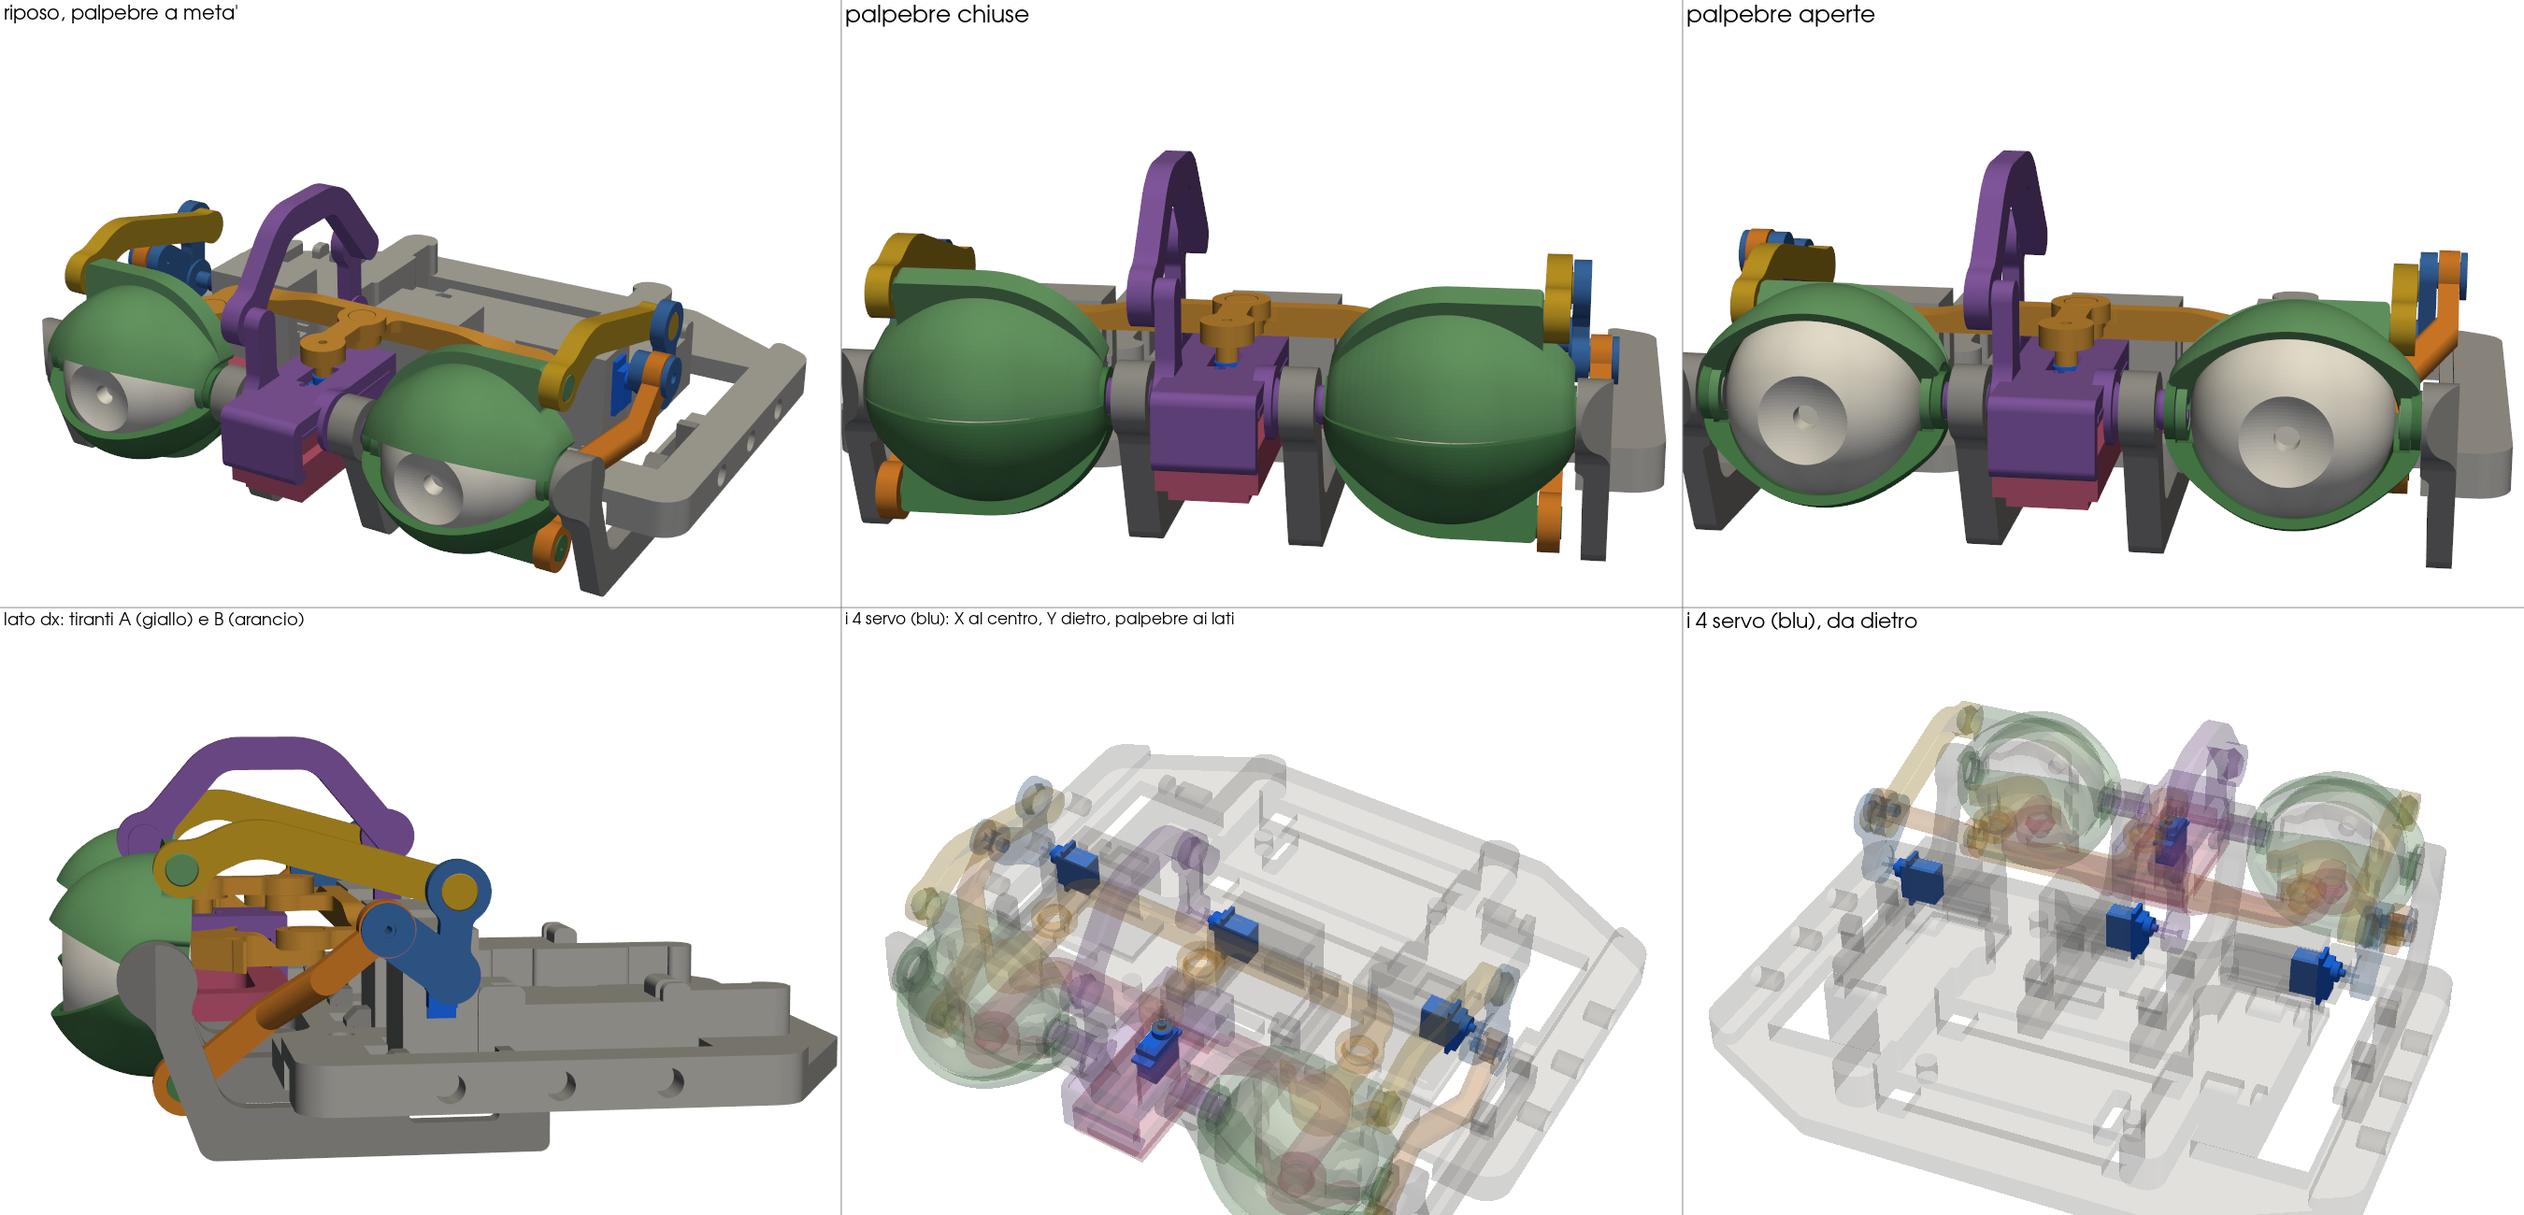
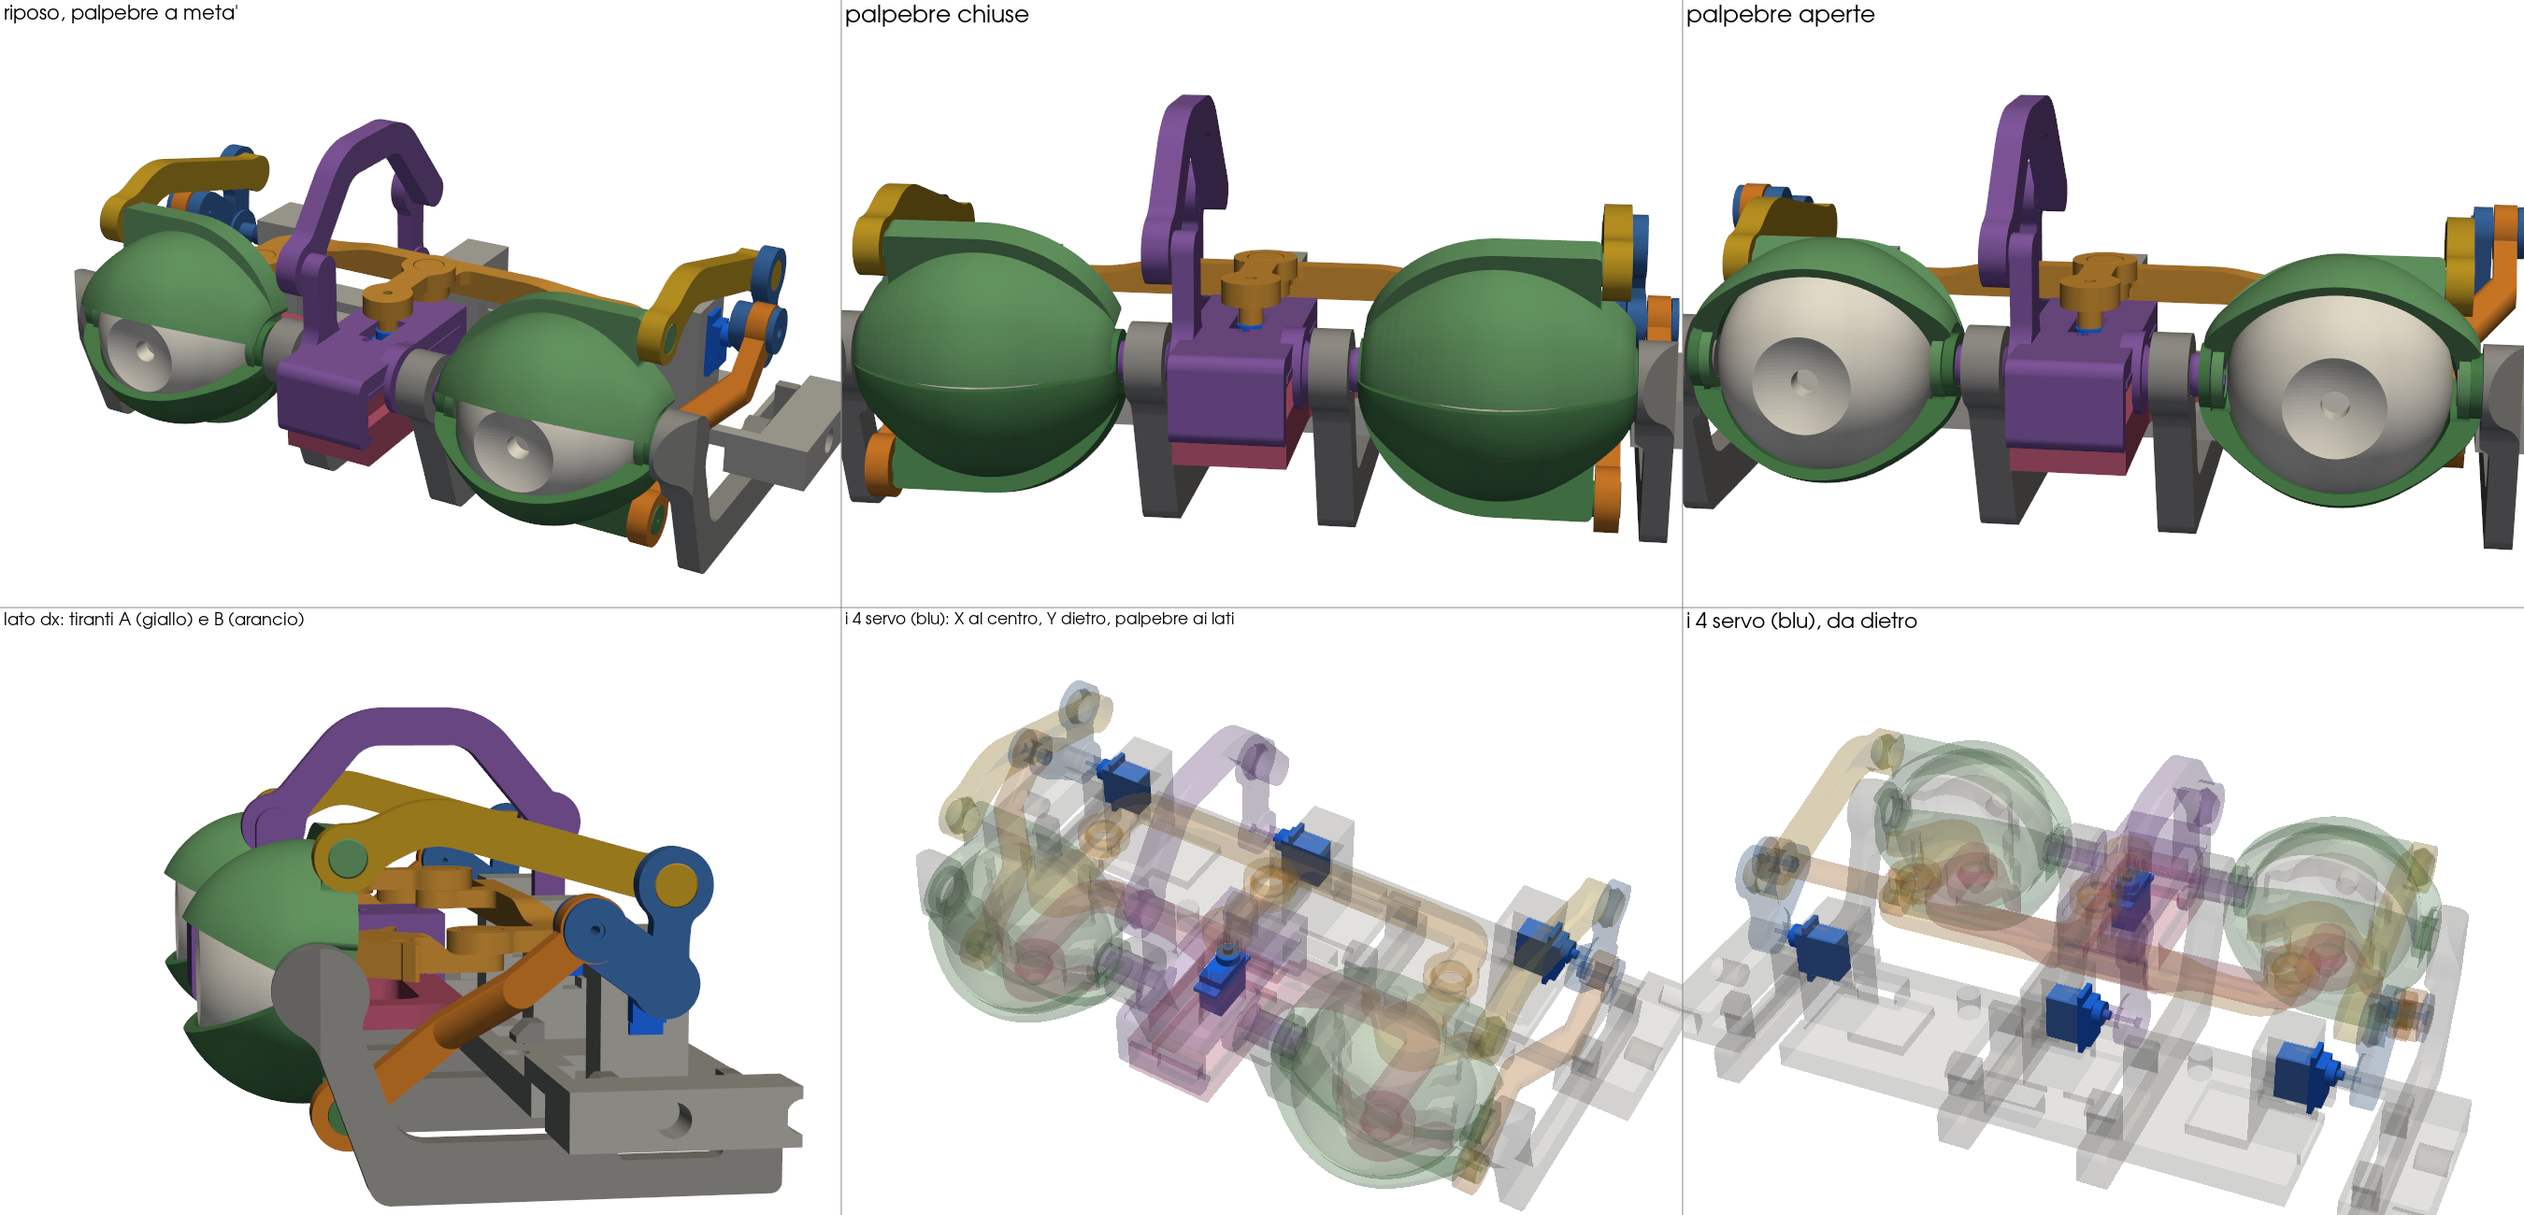
Occhi D85: base ridotta, blocchi sedi accorciati (30 h, 0.86 kg)
La base di Will teneva anche la scheda e i servo posteriori: resta solo la
striscia con le fessure dei supporti a L e le sedi dei 3 servo (388x80
invece di 388x253), con 2 chiavette. I blocchi delle sedi si fermano 24 mm
sotto le orecchie. Le due meta' della base stanno su un piatto: 8 piatti
A1 invece di 9, da 37.5 h / 1.24 kg a 30.3 h / 0.86 kg di PLA.

diff --git a/mechanical/scripts/generate_eyemech.py b/mechanical/scripts/generate_eyemech.py
@@ -375,7 +375,7 @@ def servo_frame(shaft_pt, shaft_dir, body_dir, top):
     return M
 
 
-def servo_seat(part, Mtop, s, plugs=(), zmin=None, sweep=40.0):
+def servo_seat(part, Mtop, s, plugs=(), zmin=None, sweep=40.0, depth=None):
     """sede 1:1 per SG90/MG90S vero dentro la sede ingrandita di Will.
     Mtop: locale servo -> pezzo con l'origine sull'asse, nel piano della faccia SUPERIORE
     (z locale = albero). Si riempie il volume del SG90 ingrandito (che era vuoto per costruzione)
@@ -384,7 +384,8 @@ def servo_seat(part, Mtop, s, plugs=(), zmin=None, sweep=40.0):
       * appoggio piano per le orecchie + 2 fori M2 autofilettanti,
       * via d'ingresso: tutto libero sopra il piano orecchie, lungo l'albero.
     plugs: mesh (nel sistema del pezzo) che chiudono fessure di Will da riempire;
-    zmin: il riempimento non scende sotto questa quota (fondo del pezzo, piano di stampa)."""
+    zmin: il riempimento non scende sotto questa quota (fondo del pezzo, piano di stampa);
+    depth: il riempimento si ferma a questa distanza sotto il piano orecchie (None = tutto)."""
     c = CL
     T = lambda m: tf(m, Mtop)
     Hs = s * SG_H                                    # fondo SG90 ingrandito a z = -Hs
@@ -395,7 +396,7 @@ def servo_seat(part, Mtop, s, plugs=(), zmin=None, sweep=40.0):
     # i plugs, l'orecchia ingrandita superiore non serve
     body = box([xb0 + 0.2, -hw, -Hs], [xb1 + 1.0, hw, 0])
     fill = U([T(body)] + list(plugs))
-    keep = T(box([-500, -500, -Hs - 500], [500, 500, ear]))
+    keep = T(box([-500, -500, -Hs - 500 if depth is None else ear - depth], [500, 500, ear]))
     fill = I(fill, keep)
     if zmin is not None:
         fill = I(fill, box([-1e4, -1e4, zmin], [1e4, 1e4, 1e4]))
@@ -690,13 +691,20 @@ def build(dia=85.0, small=False):
     plugs = {"LID_R": [s1([43.8, -28.71, bz0], [46.6, -16.21, -3.15])],
              "LID_L": [s1([-46.6, -28.71, bz0], [-43.8, -16.21, -3.15])],
              "Y": [s1([-4.55, -28.86, bz0], [-1.65, -16.06, -3.15])]}
+    # base ridotta: serve solo a tenere i supporti a L (fessure y -32.6..-12.4) e i 3 servo.
+    # Si tiene la striscia y -38..-8 (1:1); via il resto (sedi dei servo posteriori, porta-PCB,
+    # blocchi rialzati dietro le sedi palpebre).
+    base = I(base, box([-1e4, s * BASE_Y[0], -1e4], [1e4, s * BASE_Y[1], 1e4]))
+    base = D(base, [box([s * x0, s * -16.4, s * -3.15 + 0.01], [s * x1, s * BASE_Y[1] + 1, 1e3])
+                    for x0, x1 in ((-56.0, -17.0), (17.0, 56.0))])
     for k in ("LID_R", "LID_L", "Y"):
-        base = servo_seat(base, seats[k], s, plugs[k], zmin=s * bz0)
+        base = servo_seat(base, seats[k], s, plugs[k], zmin=s * bz0, depth=SEAT_DEPTH)
     fr = W["xA"]["EyeCorePivotHolder"]
     xa = out["XAxisA_PIP"]
     xa["EyeCorePivotHolder"] = servo_seat(
         xa["EyeCorePivotHolder"], seats["X"], s,
-        [s1([-6.4, -14.95, fr.bounds[0, 2]], [6.4, 10.65, 4.8])], zmin=s * fr.bounds[0, 2])
+        [s1([-6.4, -14.95, fr.bounds[0, 2]], [6.4, 10.65, 4.8])], zmin=s * fr.bounds[0, 2],
+        depth=SEAT_DEPTH)
     # box del CoreY sopra il servo X: in Will (1:1) ha una piastra con la finestra del servo
     # (x +-6.4, y -24.5..-0.47, z -12..-9 nel gruppo) e sotto la cavita' tra le pareti di testa
     # (y -29.2..3.3). Ingrandite sarebbero 2.7 volte il servo: si riempiono e si apre la finestra
@@ -738,7 +746,9 @@ def bowtie(cx, cy, z0, z1, half_len=24.0, w_mid=14.0, w_end=26.0, grow=0.0):
     return m
 
 
-KEY_Y = (17.5, 41.5, -5.0)      # posizioni delle chiavette sotto la base (unita' 1:1)
+BASE_Y = (-38.0, -8.0)          # striscia di base tenuta (unita' 1:1)
+KEY_Y = (-31.0, -14.0)          # posizioni delle chiavette sotto la base (unita' 1:1)
+SEAT_DEPTH = SG_EAR[0] + 8.0    # blocchi delle sedi: corpo sotto le orecchie + cavo + parete
 KEY_DEPTH = 7.0
 KEY_SCREW_X = 15.0
 
@@ -764,7 +774,7 @@ def split_base(base, s):
         cone = trimesh.creation.cone(radius=3.4, height=3.4, sections=24)   # svasatura sotto
         cone.apply_translation([sx * KEY_SCREW_X, 0, -0.01])
         kc.append(cone)
-    return {"Base_L": L, "Base_R": R, "BaseKey_x3": D(key, kc)}
+    return {"Base_L": L, "Base_R": R, f"BaseKey_x{len(KEY_Y)}": D(key, kc)}
 
 
 # =====================================================================================
@@ -898,7 +908,7 @@ def info_text(s, info, kin, files, worst):
     else:
         L += [f"codolo_mozzo_mm: {s * WILL_HORN_FACE - SG_BOSS_TOP - 0.6:.1f} (sede scanalato D{SPLINE_D} x {SPLINE_DEPTH})",
               f"viti: per squadretta 1 x M2x12 (nel codolo, nello scanalato); {tb};",
-              "      per servo 2 x M2x8 autofilettanti (orecchie -> sede); base: 6 x M3x10 svasate nelle chiavette"]
+              f"      per servo 2 x M2x8 autofilettanti (orecchie -> sede); base: {2 * len(KEY_Y)} x M3x10 svasate nelle chiavette"]
     L.append("pezzi (mm, X x Y x Z come esportati):")
     for n, e in files:
         L.append(f"  {n}: {e[0]:.0f} x {e[1]:.0f} x {e[2]:.0f}")
@@ -909,17 +919,17 @@ def info_text(s, info, kin, files, worst):
 # piatti per Bambu A1 (256 x 256) dei pezzi grandi della D85: (pezzo, file, rotazione z,
 # posizione). "c": centro xy dell'ingombro; "min": angolo minimo xy.
 A1_PLATES = {
-    "P1": [("Base_L", "00_Base_L", 0, ("c", 98.935, 128.0)),
-           ("BaseKey_x3", "01_BaseKey0", 0, ("min", 203.0, 20.0)),
-           ("BaseKey_x3", "02_BaseKey1", 0, ("min", 203.0, 55.0)),
-           ("BaseKey_x3", "03_BaseKey2", 0, ("min", 203.0, 90.0))],
-    "P2": [("Base_R", "00_Base_R", 0, ("c", 98.935, 128.0)),
-           ("PinB_x2", "01_PinB1", 0, ("min", 210.0, 30.0)),
-           ("PinB_x2", "02_PinB2", 0, ("min", 210.0, 70.0)),
-           ("Washer_x2", "03_Washer1", 0, ("min", 210.0, 110.0)),
-           ("Washer_x2", "04_Washer2", 0, ("min", 210.0, 145.0))],
-    "P3": [("XAxisA_PIP", "00_XAxisA_PIP", 135, ("c", 128.0, 128.0))],   # 264 mm: in diagonale
-    "P4": [("XAxisB_PIP", "00_XAxisB_PIP", 135, ("c", 128.0, 128.0))],
+    # le due meta' della base (194 x 80) una sopra l'altra, minuteria nella fascia in alto
+    "P1": [("Base_L", "00_Base_L", 0, ("c", 128.0, 50.0)),
+           ("Base_R", "01_Base_R", 0, ("c", 128.0, 140.0)),
+           ("BaseKey_x2", "02_BaseKey1", 0, ("min", 10.0, 200.0)),
+           ("BaseKey_x2", "03_BaseKey2", 0, ("min", 66.0, 200.0)),
+           ("PinB_x2", "04_PinB1", 0, ("min", 124.0, 200.0)),
+           ("PinB_x2", "05_PinB2", 0, ("min", 154.0, 200.0)),
+           ("Washer_x2", "06_Washer1", 0, ("min", 184.0, 200.0)),
+           ("Washer_x2", "07_Washer2", 0, ("min", 214.0, 200.0))],
+    "P2": [("XAxisA_PIP", "00_XAxisA_PIP", 135, ("c", 128.0, 128.0))],   # 264 mm: in diagonale
+    "P3": [("XAxisB_PIP", "00_XAxisB_PIP", 135, ("c", 128.0, 128.0))],
 }
 
 
@@ -992,7 +1002,12 @@ def render(asm, kin, s, path):
         pl.view_vector(v)
         pl.camera.zoom(zoom)
         pl.add_text(title, font_size=11)
-    pl.screenshot(str(path))
+    try:
+        pl.screenshot(str(path))
+    except OSError:            # file aperto in un visualizzatore (Windows lo blocca)
+        alt = path.with_name(path.stem + "_nuova.png")
+        pl.screenshot(str(alt))
+        print(f"immagine bloccata, salvata in {alt}")
 
 
 def main():

diff --git a/docs/mechanical_eyes.md b/docs/mechanical_eyes.md
@@ -33,7 +33,7 @@ Cambia solo quello che non si può ingrandire o che riguarda le palpebre:
 | Squadrette (palpebre, X, Y) | mozzo rifatto: codolo Ø10 che scende di 8.7 mm fino allo scanalato del servo vero, sede Ø4.75×3 a pressione + vite M2×12 |
 | Palpebre | Will usa 2 servo per occhio. Resta solo il servo **anteriore** (quello della palpebra superiore, tirante corto originale). La sua squadretta ha un secondo braccio (r 35.1 mm, 58.8° avanti) con un perno; il nuovo tirante `LinkB` (interasse 104.9 mm) porta il moto all'orecchia della palpebra inferiore. Spingendo in avanti le due orecchie le palpebre si chiudono insieme |
 | Servo posteriore | eliminato, con la sua squadretta e il tirante lungo. La sua sede ingrandita resta vuota |
-| Base | 388 × 253 × 67 mm: divisa a metà (x = 0), unita da 3 chiavette a coda di rondine sotto, con 2 viti M3×10 svasate ciascuna |
+| Base | **ridotta** a 388 × 80 × 67 mm: in Will teneva anche la scheda e i servo posteriori, qui deve solo tenere i supporti a L e i 3 servo. Resta la striscia y −38…−8 (quote 1:1) con le fessure dei supporti e i blocchi delle sedi (accorciati a 24 mm sotto le orecchie). Divisa a metà (x = 0), unita da 2 chiavette a coda di rondine sotto, con 2 viti M3×10 svasate ciascuna |
 | Porta-PCB | non inclusi: ingranditi terrebbero una scheda di Will 2.7 volte più grande |
 
 **Cinematica palpebre** (ottimizzata nello script): con 80° di corsa del servo la palpebra superiore fa
@@ -56,12 +56,12 @@ mostrano i 4 servo (blu) con il resto trasparente.
 ### Cosa stampare (D85)
 | File | Q.tà | Note |
 |---|---|---|
-| `Base_L`, `Base_R` | 1+1 | 194 × 253 × 67 mm ciascuna, piatto da 256. Contengono le sedi 1:1 dei servo Y e palpebre (la sede Y è a cavallo della giunzione) |
-| `BaseKey_x3` | 3 | chiavette sotto la giunzione, viti M3×10 svasate (6) |
+| `Base_L`, `Base_R` | 1+1 | 194 × 80 × 67 mm ciascuna, stanno insieme su un piatto. Contengono le sedi 1:1 dei servo Y e palpebre (la sede Y è a cavallo della giunzione) |
+| `BaseKey_x2` | 2 | chiavette sotto la giunzione, viti M3×10 svasate (4) |
 | `PivotCentral_x2`, `PivotOuter_L`, `PivotOuter_R` | 2+1+1 | supporti a L |
 | `Eyeball_x2` | 2 | bulbi di Will Ø85.3 (pochi perimetri, riempimento basso: pieni sarebbero ~200 g) |
 | `CoreY_PIP` | 1 | telaio su/giù + squadretta Y (print-in-place); nel box la finestra 1:1 del servo X |
-| `XAxisA_PIP`, `XAxisB_PIP` | 1+1 | asse X (print-in-place), in `XAxisA` la sede 1:1 del servo X. Lunghi 264 mm: **in diagonale** sul piatto da 256 (già fatto in `print_A1/P3`, `P4`) |
+| `XAxisA_PIP`, `XAxisB_PIP` | 1+1 | asse X (print-in-place), in `XAxisA` la sede 1:1 del servo X. Lunghi 264 mm: **in diagonale** sul piatto da 256 (già fatto in `print_A1/P2`, `P3`) |
 | `LidTop_L_PIP`, `LidTop_R_PIP` | 1+1 | palpebra superiore + tirante originale + squadretta nuova (print-in-place) |
 | `LidBottom_L`, `LidBottom_R` | 1+1 | palpebra inferiore, perno dell'orecchia cilindrico Ø14 con foro per M3 |
 | `LinkB_L`, `LinkB_R` | 1+1 | tirante nuovo: ha un tratto obliquo, serve supporto |
@@ -69,9 +69,9 @@ mostrano i 4 servo (blu) con il resto trasparente.
 | `Washer_x2` | 2 | rondella sull'orecchia della palpebra inferiore, vite M3×10 |
 
 Orientamenti di stampa: quelli di Will (presi dal suo 3MF), solo ingranditi.
-`print_A1/`: P1 = `Base_L` + chiavette, P2 = `Base_R` + perni e rondelle, P3 = `XAxisA`, P4 = `XAxisB`.
-`bambu_A1/`: tutti i pezzi già tagliati in Bambu Studio su 9 piatti A1 (PLA, 0.20 mm): **≈ 37 h 30 min e
-≈ 1.24 kg di filamento** in totale; tempi e grammi per piatto in `bambu_A1/README.md`.
+`print_A1/`: P1 = `Base_L` + `Base_R` + chiavette, perni e rondelle, P2 = `XAxisA`, P3 = `XAxisB`.
+`bambu_A1/`: tutti i pezzi già tagliati in Bambu Studio su 8 piatti A1 (PLA, 0.20 mm): **≈ 30 h 20 min e
+≈ 0.86 kg di filamento** in totale; tempi e grammi per piatto in `bambu_A1/README.md`.
 
 ### Montaggio
 Come nella guida di Will (`mechanical/eyes/original/eyemech_e3.2/src/Assembly.pdf`), con queste differenze:

diff --git a/mechanical/eyes/eyemech_D85/bambu_A1/README.md b/mechanical/eyes/eyemech_D85/bambu_A1/README.md
@@ -6,21 +6,23 @@ Si aprono direttamente in Bambu Studio (File → Apri progetto) e si mandano in 
 
 | Piatto | Contenuto | Tempo | Filamento | Altezza |
 |---|---|---|---|---|
-| 1 | `Base_L` + 3 chiavette | 6 h 29 min | 282 g | 67 mm |
-| 2 | `Base_R` + 2 `PinB` + 2 rondelle | 6 h 41 min | 290 g | 67 mm |
-| 3 | `XAxisA_PIP` (in diagonale) | 3 h 01 min | 83 g | 37 mm |
-| 4 | `XAxisB_PIP` (in diagonale) | 3 h 07 min | 66 g | 30 mm |
-| 5 | `CoreY_PIP` + `LidBottom_L` + `LidBottom_R` | 6 h 28 min | 152 g | 112 mm |
-| 6 | `LidTop_L_PIP` + `LidTop_R_PIP` | 4 h 47 min | 119 g | 109 mm |
-| 7 | `PivotOuter_L` + `PivotOuter_R` | 1 h 13 min | 49 g | 24 mm |
-| 8 | `PivotCentral` × 2 | 1 h 20 min | 57 g | 15 mm |
-| 9 | `Eyeball` × 2 + `LinkB_L` + `LinkB_R` | 4 h 14 min | 143 g | 53 mm |
-| **Totale** | **9 piatti** | **≈ 37 h 30 min** | **≈ 1.24 kg (410 m)** | |
+| 1 | `Base_L` + `Base_R` (base ridotta) + 2 chiavette + 2 `PinB` + 2 rondelle | 5 h 37 min | 192 g | 67 mm |
+| 2 | `XAxisA_PIP` (in diagonale) | 3 h 26 min | 83 g | 37 mm |
+| 3 | `XAxisB_PIP` (in diagonale) | 3 h 07 min | 66 g | 30 mm |
+| 4 | `CoreY_PIP` + `LidBottom_L` + `LidBottom_R` | 6 h 28 min | 152 g | 112 mm |
+| 5 | `LidTop_L_PIP` + `LidTop_R_PIP` | 4 h 47 min | 119 g | 109 mm |
+| 6 | `PivotOuter_L` + `PivotOuter_R` | 1 h 13 min | 49 g | 24 mm |
+| 7 | `PivotCentral` × 2 | 1 h 20 min | 57 g | 15 mm |
+| 8 | `Eyeball` × 2 + `LinkB_L` + `LinkB_R` | 4 h 14 min | 143 g | 53 mm |
+| **Totale** | **8 piatti** | **≈ 30 h 20 min** | **≈ 0.86 kg** | |
 
 Stime di Bambu Studio (tempi senza riscaldamento/calibrazione iniziale, che sull'A1 aggiungono
 qualche minuto per piatto). Con un altro filamento o profilo i valori cambiano: rifare lo slicing.
-Ordine consigliato: prima i piatti 3, 4, 5 (assi X/Y e box del servo X) per provare le sedi dei servo,
-poi le basi.
+Ordine consigliato: prima i piatti 2, 3, 4 (assi X/Y e box del servo X) per provare le sedi dei servo,
+poi la base.
+
+Nei pezzi print-in-place (`CoreY`, `XAxisA/B`, `LidTop`) controllare nell'anteprima che i supporti
+automatici non finiscano negli spazi tra le parti mobili (eventualmente toglierli col pennello).
 
 Rigenerare (dopo `generate_eyemech.py`): aprire i file STL in `../` e `../print_A1/` in Bambu Studio,
 oppure usare la riga di comando (`bambu-studio.exe --slice 0 --arrange 1 ... --export-3mf`).

diff --git a/docs/lista_spesa.md b/docs/lista_spesa.md
@@ -85,10 +85,10 @@ generica: servono per farsi un'idea del budget, non sono preventivi.
 ## 5. Meccanica occhi (EyeMech D85, per coppia di occhi; dettagli in `docs/mechanical_eyes.md`)
 | # | Articolo | Specifica | Q.tà per coppia | Note |
 |---|---|---|---|---|
-| 54 | Filamento PETG (o PLA+) | — | ~1.5–2 kg | bulbi e palpebre leggeri (pochi perimetri, riempimento basso) |
+| 54 | Filamento PETG (o PLA+) | — | ~1 kg (0.86 kg in PLA, vedi `bambu_A1/README.md`) | bulbi e palpebre leggeri (pochi perimetri, riempimento basso) |
 | 55 | Viti M2 autofilettanti | 8 mm (servo) + 12 mm (squadrette) | 8 + 4 | 2 per servo nelle orecchie, 1 per squadretta |
 | 56 | Viti M3 | 20 mm (PinB) + 10 mm (rondelle palpebre) | 2 + 2 | |
-| 57 | Viti M3 svasate | 10 mm | 6 | chiavette della base |
+| 57 | Viti M3 svasate | 10 mm | 4 | chiavette della base |
 | 58 | Versione di prova D32 | viti M2 × 8 mm e × 5 mm | 2 + 2 | + filamento ~150 g |
 
 ## Riepilogo budget indicativo

diff --git a/docs/TODO.md b/docs/TODO.md
@@ -20,7 +20,7 @@ Dettagli: `docs/mechanical_eyes.md`.
 
 ## 3. Versione D85 (`mechanical/eyes/eyemech_D85/`)
 - [ ] Prima: provare una sede 1:1 e una squadretta col servo vero
-- [ ] Stampare i piatti `print_A1/P1`…`P4` + gli altri pezzi
+- [ ] Stampare gli 8 piatti di `eyemech_D85/bambu_A1/` (≈ 30 h, ≈ 0.86 kg PLA)
 - [ ] Controllare al montaggio che i codoli delle squadrette X/Y non tocchino il mozzo ingranaggi
 - [ ] Prova di movimento: MG90S consigliati (pezzi ~19 volte più pesanti dell'originale)
 
